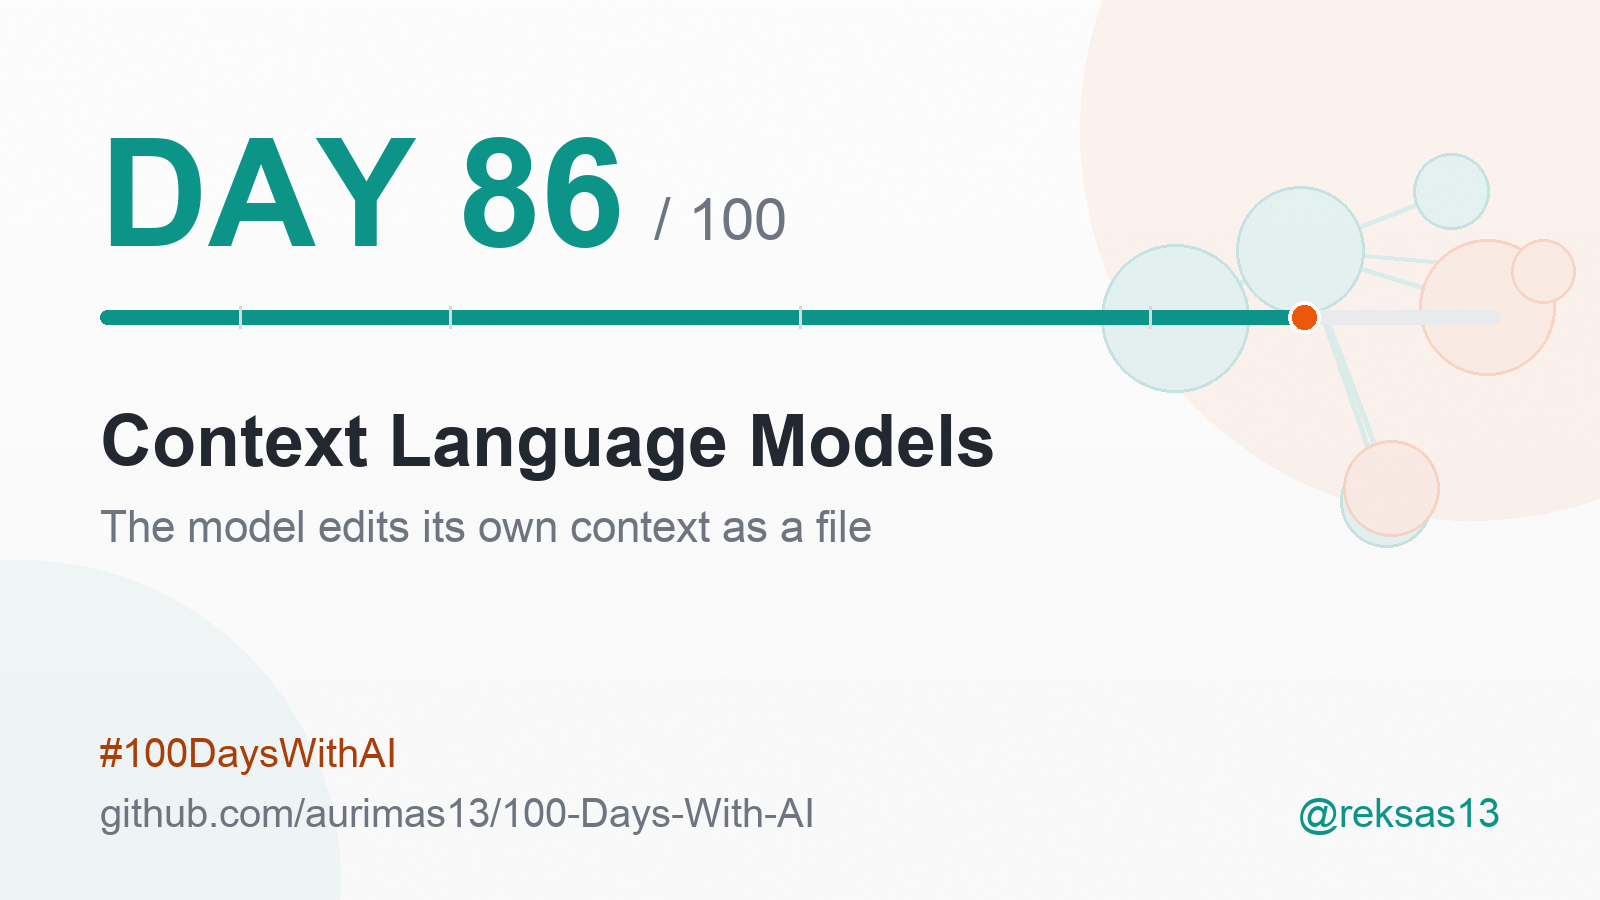
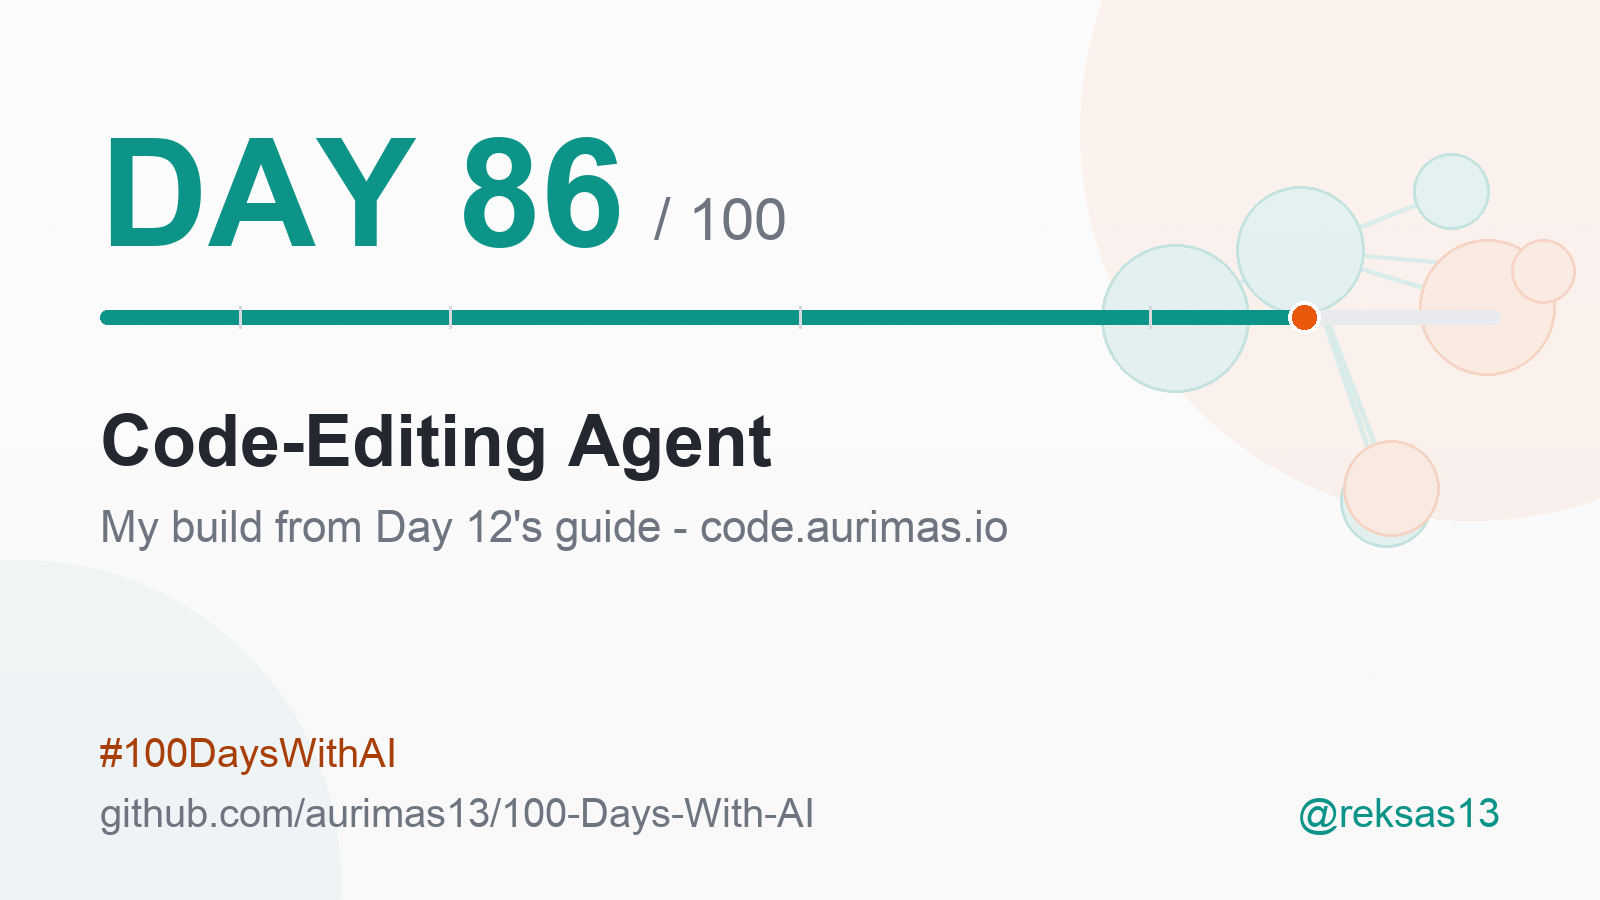
Day 86: Code-Editing Agent (my build; Context Language Models moves to Day 91)

Changed region(s): [[0.0625, 0.56, 0.625, 0.6222], [0.125, 0.4356, 0.625, 0.5289]]

diff --git a/README.md b/README.md
@@ -181,7 +181,7 @@ for the shape of the progress table.
 | 83 | 2026-10-02 | "Claude Agent From Scratch" - Aurimas Nausėdas (my build, from the Dextra Labs guide) | Advanced | My own ReAct agent on the Claude API, built by following the Day 15 guide and taken to a live site: a hand-written Think - Act - Observe loop, real tools (calculator, weather, world clock, web search), memory in Supabase, every step streamed to the page, plus an explained-like-you're-five walkthrough of the guide and the five fixes it needed | [Live](https://agent.aurimas.io) · [GitHub](https://github.com/aurimas13/Claude-Agent-From-Scratch) · [Guide](https://dev.to/dextralabs/how-to-build-an-ai-agent-from-scratch-using-claude-api-with-full-code-4b40) |
 | 84 | 2026-10-03 | "Unlocking Lossless Speedups in LLMs via Discrete Diffusion" - Sahoo et al. | Advanced | A preprint proposing "diffusion-augmented LLMs" that keep an autoregressive model's distribution but use lightweight diffusion weights and a sampler family called Ψ-Spec to "draw multiple tokens in parallel from that distribution"; the resulting Uno models claim "up to 3×" speedups over the base model and higher throughput than leading speculative decoding (DFlash, Eagle3) "at every evaluated batch size" with no separate draft model, and the 8B Uno is reported to beat the 26B DiffusionGemma and Mercury 2 on the authors' own evaluation; read from the abstract, project page and code README only (v1, 3 September 2026, not peer reviewed), the project page charts "up to 2.5×", and nothing was run | [arxiv.org](https://arxiv.org/abs/2609.04010) |
 | 85 | 2026-10-04 | "Getting started with Claude Code mods" - Addy Osmani | Medium | A claude.dev walkthrough (1 October 2026) of mods: small JavaScript or TypeScript files, shipped as hooks inside a plugin, that run in the Claude Code session and can "watch what's happening, change what Claude Code does, or draw its own UI" in the terminal or desktop app; each hook is middleware that can observe, rewrite or answer an event, with hot reload, persistent state and a 10-second budget per dispatch, illustrated by three example mods (Token Weather, Blast Radius, Replay Theater); read from the post only, nothing was built or run | [claude.dev](https://claude.dev/blog/getting-started-with-claude-code-mods/) |
-| 86 | 2026-10-05 | "Context Language Models" - Shao et al. | Advanced | A preprint introducing "Context Language Models (CLMs), language models that natively manage their own context" by "treating the context as a file and allowing the model to make unrestricted updates to this file"; built zero-shot from existing models, CLMs are reported to beat state-of-the-art context-management strategies (11.4% higher accuracy with 21.5% fewer FLOPs on BrowseComp-Plus, 5% higher scores with 59% fewer FLOPs on 12-hour EdgeBench), to extend to agent swarms as multiple context files, to learn context management by prompt optimisation and online RL, and to cut serving compute by 35% with Suffix Cache Reuse; read from the abstract and the arXiv HTML (v1, 29 September 2026, not peer reviewed), nothing was run | [arxiv.org](https://arxiv.org/abs/2609.37725) |
+| 86 | 2026-10-05 | "Code-Editing Agent" - Aurimas Nausėdas (my build, from Thorsten Ball's guide) | Advanced | My own code-editing agent in Go, built from the Day 12 guide and taken to a live site: the guide's loop of Claude plus `read_file`, `list_files` and `edit_file` ("about forty lines and it has not changed"), wrapped in a per-visitor sandboxed workspace, caps at four levels and a daily dollar budget, a trace of every step streamed to the browser and stored in Supabase, web research as an optional fourth tool, and a step-by-step build guide; 25 sandbox and edit cases plus 14 loop cases on a scripted fake, and 15 live cases on claude-haiku-4-5, all passed before launch - then the first day of use by hand (24 messages, 7 sessions, 50 minutes, 48 cents) "turned up 13 problems that no suite had caught" | [code.aurimas.io](https://code.aurimas.io) |
 
 ---
 
@@ -2011,19 +2011,21 @@ Day 15 read [the guide](https://dev.to/dextralabs/how-to-build-an-ai-agent-from-
 
 <sub>🤝 <b>AI collaboration:</b> researched, drafted and illustrated with Claude Code; reviewed, edited and approved by me before publishing - see <a href="#-ai-collaboration">AI Collaboration</a>.</sub>
 
-### Day 86 - "Context Language Models" (Shao et al.)
+### Day 86 - "Code-Editing Agent" (my build, from Thorsten Ball's guide)
 
 <img src="assets/cards/day-086.png" width="420" alt="Day 86 card">
 
-- **The idea in one sentence.** The authors introduce "Context Language Models (CLMs), language models that natively manage their own context", implemented "by treating the context as a file and allowing the model to make unrestricted updates to this file." Context management moves from the harness into the model.
-- **How the editing works.** The live context is mirrored to "a storage space with LM write access", and the model "can either append newly generated tokens or use Bash to freely edit the context file" - removing blocks, creating new roles, defining reusable functions, or moving material out to other files on disk.
-- **The numbers, zero-shot.** Built from existing models with no training, CLMs are reported to beat state-of-the-art strategies (the HTML names Codex-style Summary, Context Folding, RLM, Self-Compact, ACM and MEM1): "11.4% higher accuracy with 21.5% fewer FLOPs on BrowseComp-Plus" and "5% higher scores with 59% fewer FLOPs on 12-hour EdgeBench".
-- **Swarms fall out of the design.** Multiple agents become multiple context files that "coexist and remain synchronized with their respective LLM servers"; subagents start and stop by creating and deleting files. On a 24-hour multi-repository agent-swarm task the paper reports "65% greater improvement with the same compute".
-- **Learnable, and cheaper to serve.** Because context management is now model behaviour, it can be steered by prompts evolved in a skill-optimisation loop ("up to 35.9 points" on held-out accuracy) or trained with online RL (Qwen3.5-9B "by 47.6%" on BrowseComp-Plus with "12% fewer FLOPs"). Suffix Cache Reuse keeps the cached states of tokens that survive an edit instead of re-prefilling everything after the first change, cutting server-side compute "by 35% relative to standard SGLang at matched performance".
+Day 12 read [How to Build an Agent](https://ampcode.com/notes/how-to-build-an-agent) by Thorsten Ball. Day 86 is what I built from it: a live agent at [code.aurimas.io](https://code.aurimas.io), code at [Code-Editing-Agent](https://github.com/aurimas13/Code-Editing-Agent) (Go and Next.js, MIT). It is the third agent in a series, after [Calculator-Agent](https://github.com/aurimas13/Calculator-Agent) and Day 83's [Claude Agent From Scratch](https://github.com/aurimas13/Claude-Agent-From-Scratch).
 
-**Why it matters:** Today almost every long-running agent manages its context from outside - a harness summarises, folds or truncates on a fixed rule, and the model lives with whatever is left. CLMs hand that decision to the model itself, which turns context management from hand-written policy into something you can prompt-optimise and train. The serving half matters as much: editing the middle of a context normally throws away the KV cache from that point on, and Suffix Cache Reuse is what keeps a self-editing model affordable to run.
+- **The guide's claim held.** Ball's point was that a coding agent is "an LLM, a loop, and enough tokens", with three tools: `read_file`, `list_files` and `edit_file`, the last one a plain find-and-replace that can also create a file. In my build, "that loop is about forty lines and it has not changed." The site's own build guide walks it in eight steps - set up, chat, tool menu, `read_file`, the loop, `list_files`, `edit_file`, make it safe - and the finished `main.go` there is 317 lines.
+- **Everything around the loop is the real work.** Each visitor gets an in-memory, sandboxed workspace, and nothing can be read or written outside it. Edits are refused for empty search text on a file that already exists and for ambiguous matches. Tokens are capped at four levels, a daily dollar budget survives restarts, requests are rate-limited per session and per visitor, and credentials are redacted before the model ever sees them.
+- **Every step is visible.** A trace of each step is streamed to the browser and stored in Supabase, so a visitor can watch which tool was called, with what, and what came back. Web research is a fourth tool, with sources.
+- **Three layers of tests.** 25 deterministic cases on the sandbox and edit rules, 14 on the agent loop against a scripted fake model, and 15 live cases on `claude-haiku-4-5`, all passing on 4 October 2026.
+- **Then real use.** "Everything above passed before launch. Then the deployed agent was used by hand: 24 messages in 7 sessions over 50 minutes, 48 cents in all. That turned up 13 problems that no suite had caught." Among them: cited answers rendered as broken lines because the API returns one text block per cited span; the model wrote `<cite>` tags into files it saved; earlier search results added about 8,500 tokens to every later call until they were dropped after each turn; and the model declined to read `../../etc/passwd` without calling the tool at all - now it is told to always try, and the sandbox does the refusing.
 
-**What I learned/tried:** The picture that made it click for me is a cell membrane: a living thing survives by choosing what crosses in and what stays out, and here the model chooses what stays in its own working memory. The paper's own limitations section names the cost of that power plainly: "Editable context can become another channel through which prompt injections or self-generated instructions persist across turns." I read the abstract and the arXiv HTML; I have not run the code (github.com/facebookresearch/context-language-models) or checked the per-task tables.
+**Why it matters:** Day 12 showed that the core of a coding agent is small. Building one for strangers shows what the small core leaves out: where files may live, how much a visitor can spend, what the model is allowed to decide for itself, and how anyone can tell what it did. The loop is the easy part. The public version is mostly control and evidence.
+
+**What I learned/tried:** The tests were the lesson I did not expect. Every suite was green, and fifty minutes of using it like a visitor still found thirteen problems, most of them about how the model behaves around the tools rather than the tools themselves. The fix I keep thinking about is the `../../etc/passwd` one: a polite refusal from the model looks safe, but it means the sandbox was never exercised, so the safety rule belongs in code, not in the model's good manners. The core loop is Ball's; the refactoring, sandbox, limits, evals and site were built with Claude as pair programmer. Nothing was re-run for this entry; the figures are from the README and the site.
 
 <sub>🤝 <b>AI collaboration:</b> researched, drafted and illustrated with Claude Code; reviewed, edited and approved by me before publishing - see <a href="#-ai-collaboration">AI Collaboration</a>.</sub>
 
